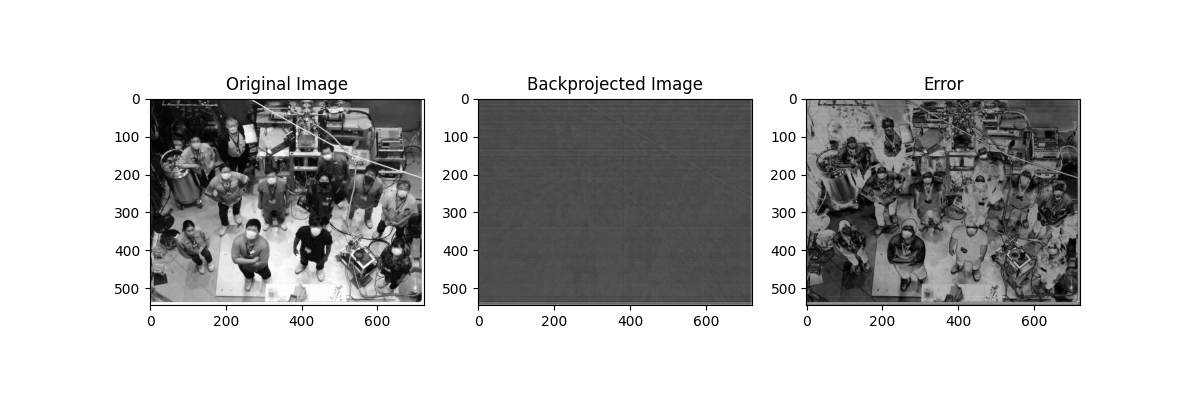
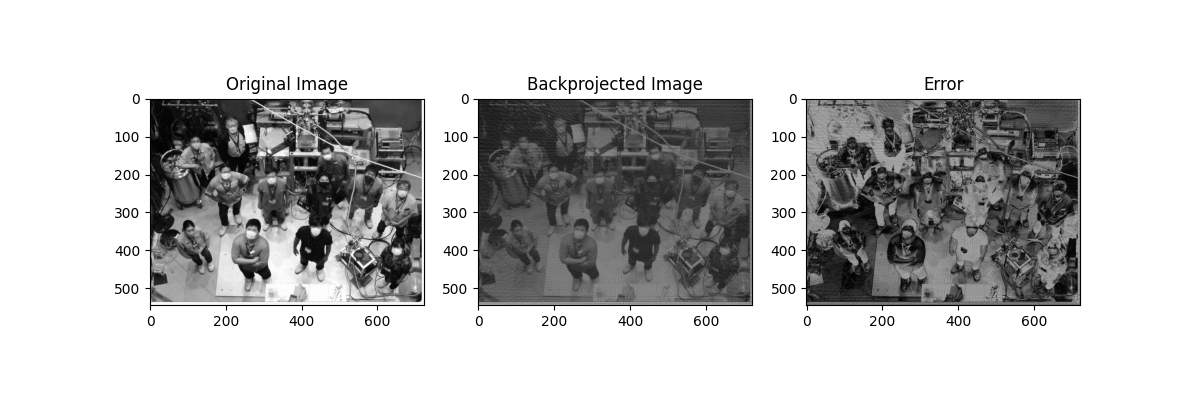
update filter, need improvement

diff --git a/macro/utils/filtbp.py b/macro/utils/filtbp.py
@@ -93,12 +93,12 @@ class Filter():
       
       def defFilter(self): 
           numAngles, projLenX, projLenY = self.myarray.shape
-          step = 2*np.pi/(projLenX*projLenY)
 #          w = arangeMod(-np.pi, np.pi, step, projLenX, projLenY)
+          step = 2*np.pi/(projLenX*projLenY)
           w = np.arange(-np.pi, np.pi, step).reshape(projLenX,projLenY)
 
           # === ramp filter ===
-          a = 0.1;
+          a = 1
           rn1 = abs(2/a*np.sin(a*w/2))
           rn2 = np.sin(a*w/2)/(a*w/2)
           r = rn1*(rn2)**2
@@ -109,11 +109,11 @@ class Filter():
 #             projfft = fft(self.myarray[i,:])
 #             filtProj = projfft*filt# accumulate, convolution
 #             filtSino[i,:] = np.real(ifft(filtProj)) #get real part (Filtered projection data)
-              filtSino[i,:] = self.myarray[i,:]
+             filtSino[i,:] = self.myarray[i,:] # same with SBP
           return filtSino
       
       def getBackProject(self):
-          H2UpperRange=16 #mm
+          H2Range=16 #mm
           LenOfHist = self.filtarray.shape[1]
           numAngles = self.filtarray.shape[0]
           reconMatrix = np.zeros((LenOfHist,LenOfHist,LenOfHist), dtype=int)
@@ -127,7 +127,15 @@ class Filter():
              _angle = self.myangle[i]
              _filth2 = self.filtarray[i,:]# 128*128 matrix
 
-             Yrot = Y*np.sin(_angle)-Z*np.cos(_angle)# Xrot is a 128*128*128 3D matrix
+             """  
+             Explanation: 
+             rotation around x-axis, Xrot = X, Yrot = Y*cos - Z*sin, Zrot = Y*sin + Z*cos (try np.einsum ?)
+             after rotantion, use Xrot and Yrot to get entry from _filth2 (so Xrot and Yrot can not exceed the size of the original)
+             get the 3D index from rotantion coordinates (m0, m1, m2), and then make plot in projMatrix (back projection)
+             no index (exceed the size of _filth2) will be zero
+             reconMatrix is used to integral all BP plots
+             """
+             Yrot = Y*np.sin(_angle)-Z*np.cos(_angle)# Yrot is a 128*128*128 3D matrix
              YrotCor = np.round(Yrot+LenOfHist/2) # shift back to original image coordinates, round values to make indices
              YrotCor = YrotCor.astype('int')
              XCor = np.round(X+LenOfHist/2)
@@ -139,7 +147,7 @@ class Filter():
              reconMatrix += projMatrix # integral
              reconMatrix.reshape(LenOfHist,LenOfHist,LenOfHist) # back to 128*128*128 3D matrix
 
-          recon = ROOT.TH3D("solid","solid",reconMatrix.shape[0],-16,16,reconMatrix.shape[1],-16,16,reconMatrix.shape[2],-16,16)
+          recon = ROOT.TH3D("solid","solid",reconMatrix.shape[0],-H2Range,H2Range,reconMatrix.shape[1],-H2Range,H2Range,reconMatrix.shape[2],-H2Range,H2Range)
           array2hist(reconMatrix,recon)
           recon.SetXTitle("x")
           recon.SetYTitle("y")

diff --git a/macro/scripts/my_filter/filtbackproj.py b/macro/scripts/my_filter/filtbackproj.py
@@ -81,7 +81,7 @@ def projFilter(sino):
     inputs: sino - [n x m] numpy array where n is the number of projections and m is the number of angles used.
     outputs: filtSino - [n x m] filtered sinogram array"""
     
-    a = 0.1;
+    a = 1;
     projLen, numAngles = sino.shape # get number of pixels & number of plots/angle from matrix
     step = 2*np.pi/projLen
     w = arange2(-np.pi, np.pi, step)
